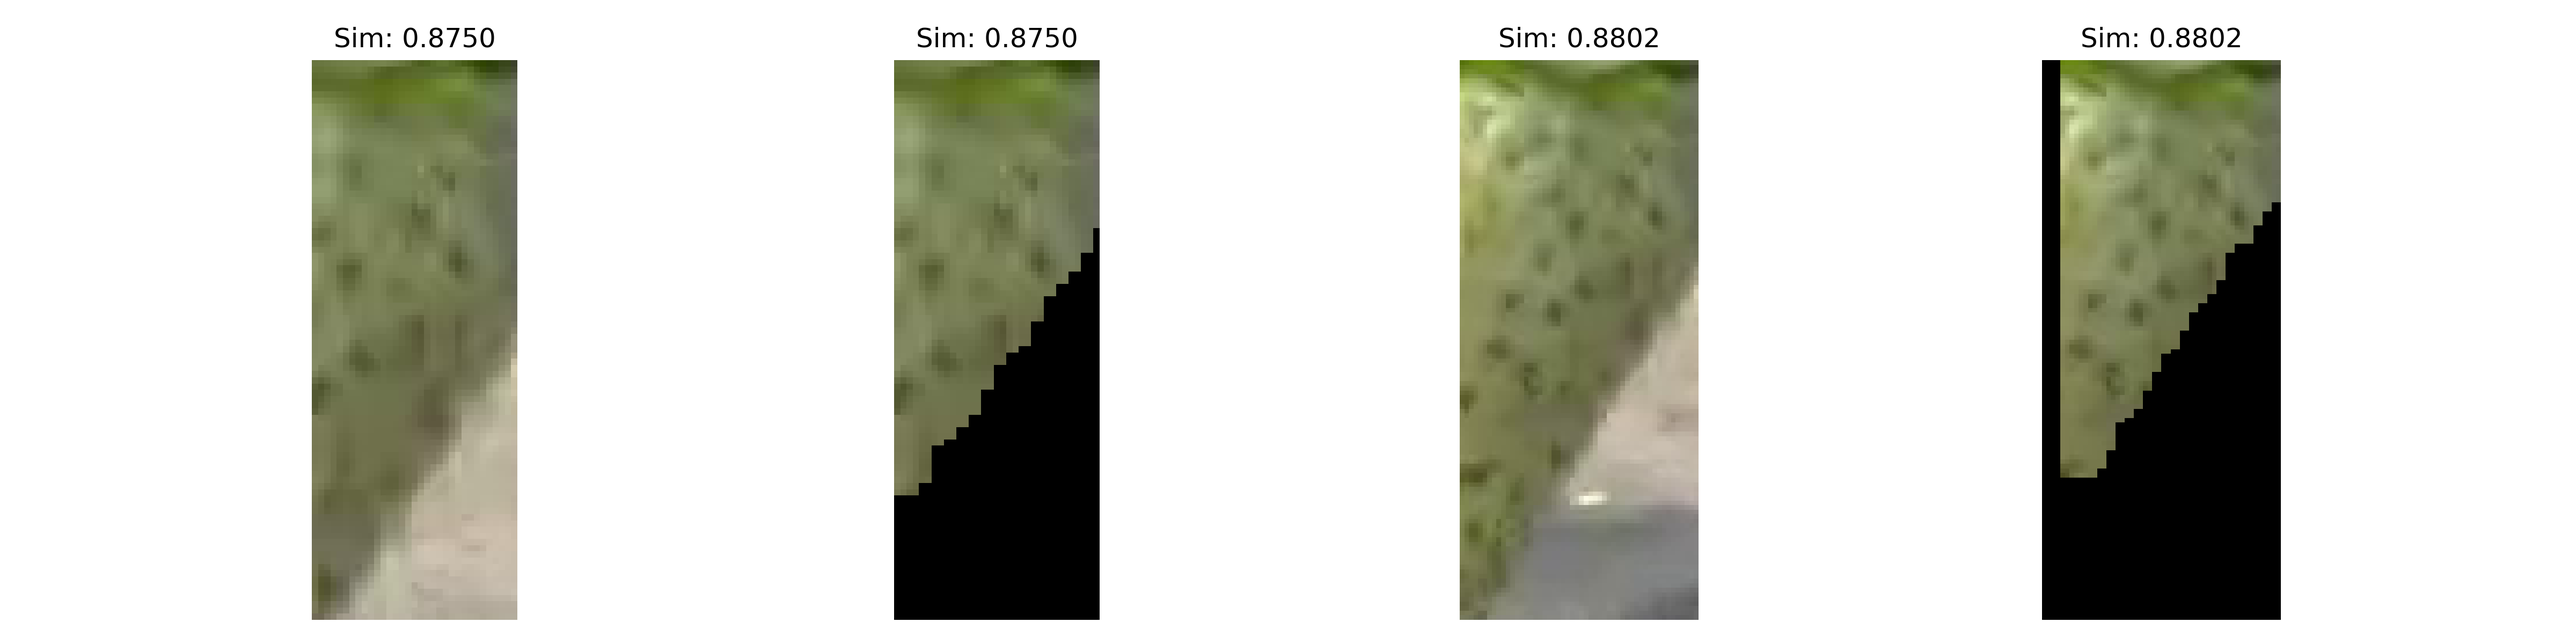
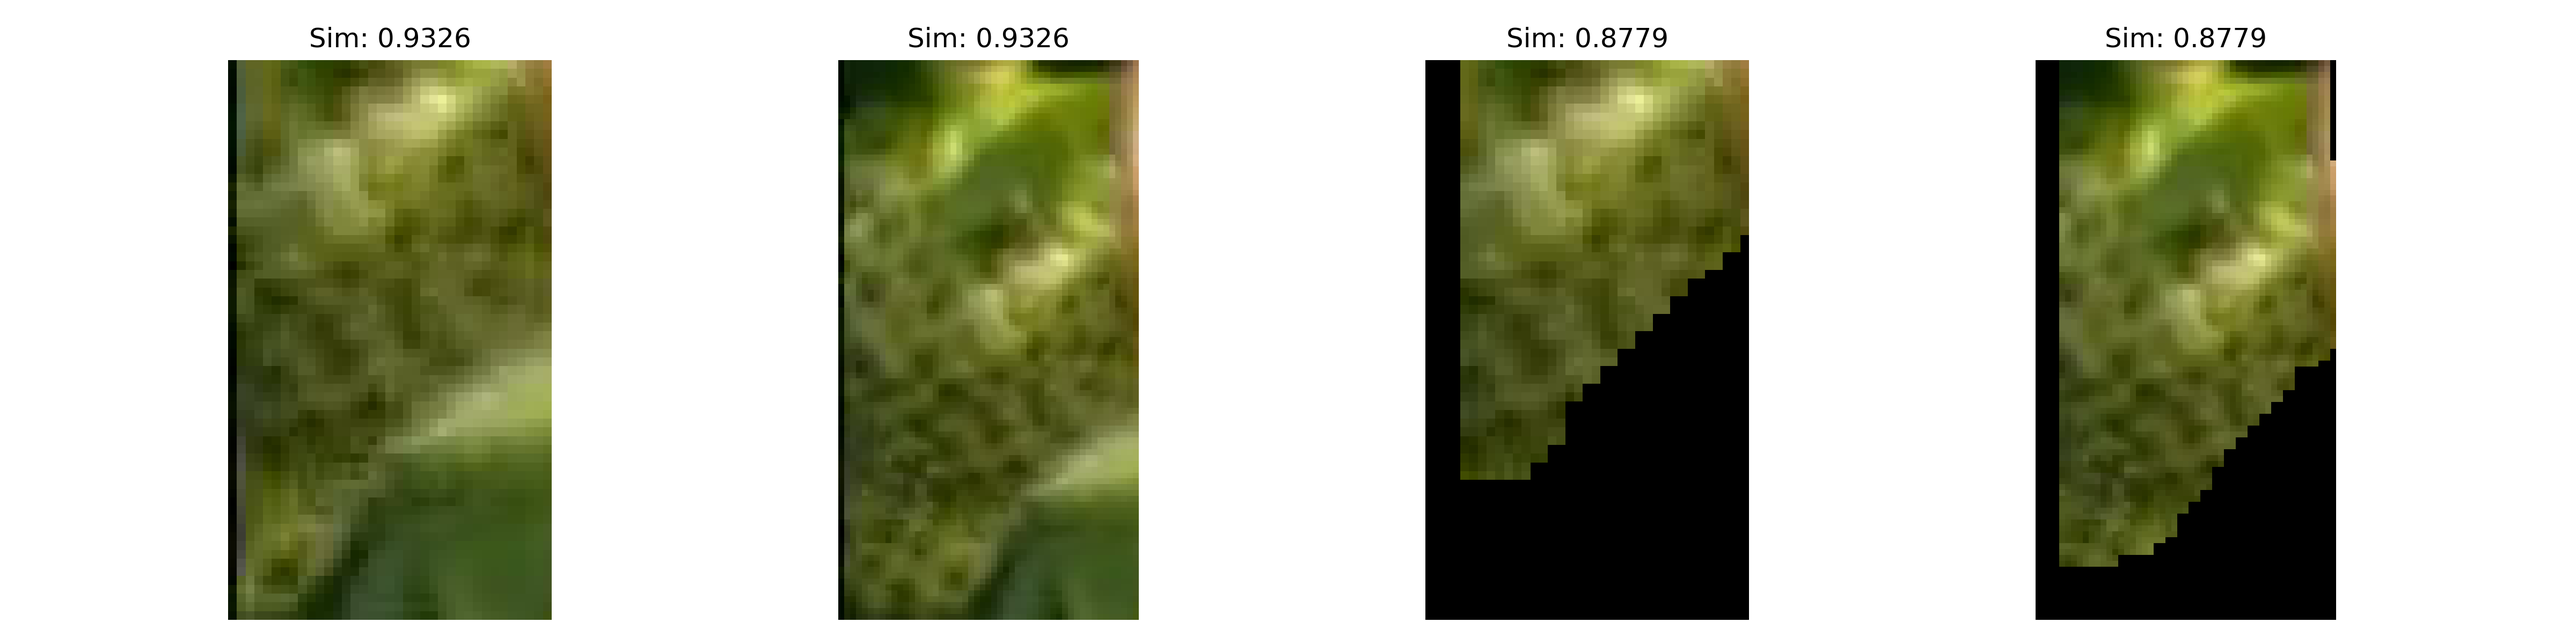
feat:24.12.20 修改视频提取mask和mask和bbox对比脚本（compare_mask_bbox_batch.py)

diff --git a/mask/video2mask.py b/mask/video2mask.py
@@ -2,7 +2,6 @@ import cv2
 import os
 import numpy as np
 from ultralytics import YOLO
-from functools import partial
 from boxmot import TRACKERS
 from boxmot.tracker_zoo import create_tracker
 from boxmot.utils import ROOT, WEIGHTS, TRACKER_CONFIGS
@@ -43,11 +42,12 @@ def on_predict_start(predictor, persist=False):
 model = YOLO(r'../tracking/weights/yolov8l_bestmodel_dataset3131_cls7_416_416_renamecls.pt')
 
 # 输入视频路径
-video_path = r'D:\华毅\目标追踪数据集\bad_case/bad_case_2.mp4'
+# video_path = r'D:\华毅\目标追踪数据集\bad_case/bad_case_2.mp4'
+video_path = r'/home/xplv/huanghanyang/Track_Datasets/1_艾维/20240113-104949_rack-5_right_RGB.mp4'
 cap = cv2.VideoCapture(video_path)
 
 # 创建输出文件夹
-output_folder = r'save/bad_case_2_tracking'
+output_folder = r'/home/xplv/huanghanyang/Track_Datasets/mask/aiwei_2'
 os.makedirs(output_folder, exist_ok=True)
 
 frame_count = 0  # 帧计数器
@@ -67,13 +67,14 @@ while cap.isOpened():
     # 提取原始图像尺寸
     original_h, original_w = frame.shape[:2]
     # 遍历每个检测结果
-    for box, mask, conf, cls, track_id in zip(
+    track_id = 0
+    for box, mask, conf, cls in zip(
             results[0].boxes.xyxy.cpu().numpy(),  # 检测框 [x1, y1, x2, y2]
             results[0].masks.data.cpu().numpy() if results[0].masks is not None else [None] * len(results[0].boxes),
             results[0].boxes.conf.cpu().numpy(),  # 置信度
             results[0].boxes.cls.cpu().numpy(),  # 类别
-            results[0].boxes.id.item() if results[0].boxes.id is not None else [0] * len(results[0].boxes),  # 跟踪ID
     ):
+        track_id += 1
         x1, y1, x2, y2 = map(int, box)
         # 边界检查
         x1, y1 = max(0, x1), max(0, y1)

diff --git a/mask/compare_mask_bbox_batch.py b/mask/compare_mask_bbox_batch.py
@@ -14,7 +14,7 @@ import os
 
 # 配置路径
 model_path = '../tracking/weights/resnet50_berry_add_6.pt'  # 使用的 ResNet 权重路径
-image_folder = r'D:\华毅\目标追踪数据集\mask\bad_case_2'  # 存放图像的主文件夹
+image_folder = r'/home/xplv/huanghanyang/Track_Datasets/mask/bad_mask/aiwei_1'  # 存放图像的主文件夹
 output_folder = r'./result/'
 # 确保输出文件夹存在
 os.makedirs(output_folder, exist_ok=True)
@@ -85,7 +85,7 @@ def process_images_batch(image_folder, output_folder):
             img4 = os.path.join(image_folder, batch[3])
 
             # 图片对：分别对bbox和mask计算
-            image_pairs = [(img1, img2), (img3, img4)]
+            image_pairs = [(img1, img3), (img2, img4)]
 
             # 提取特征并计算相似度
             similarities = []
